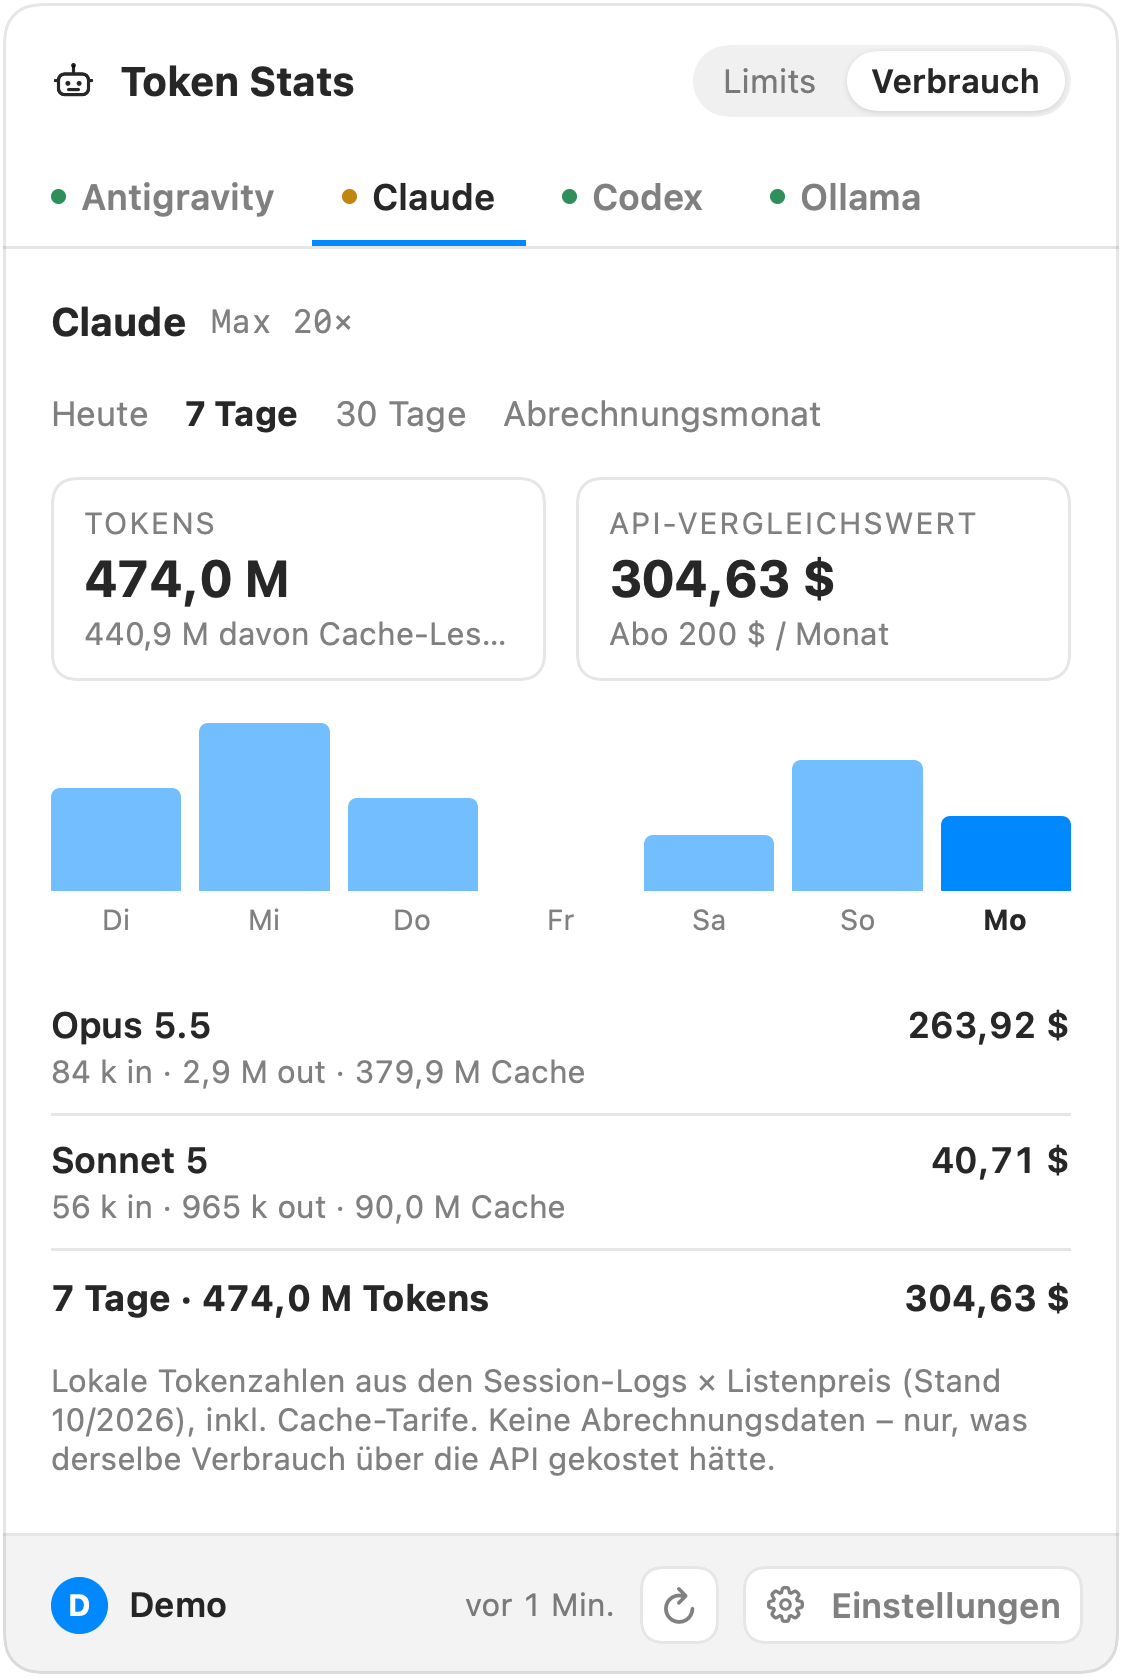
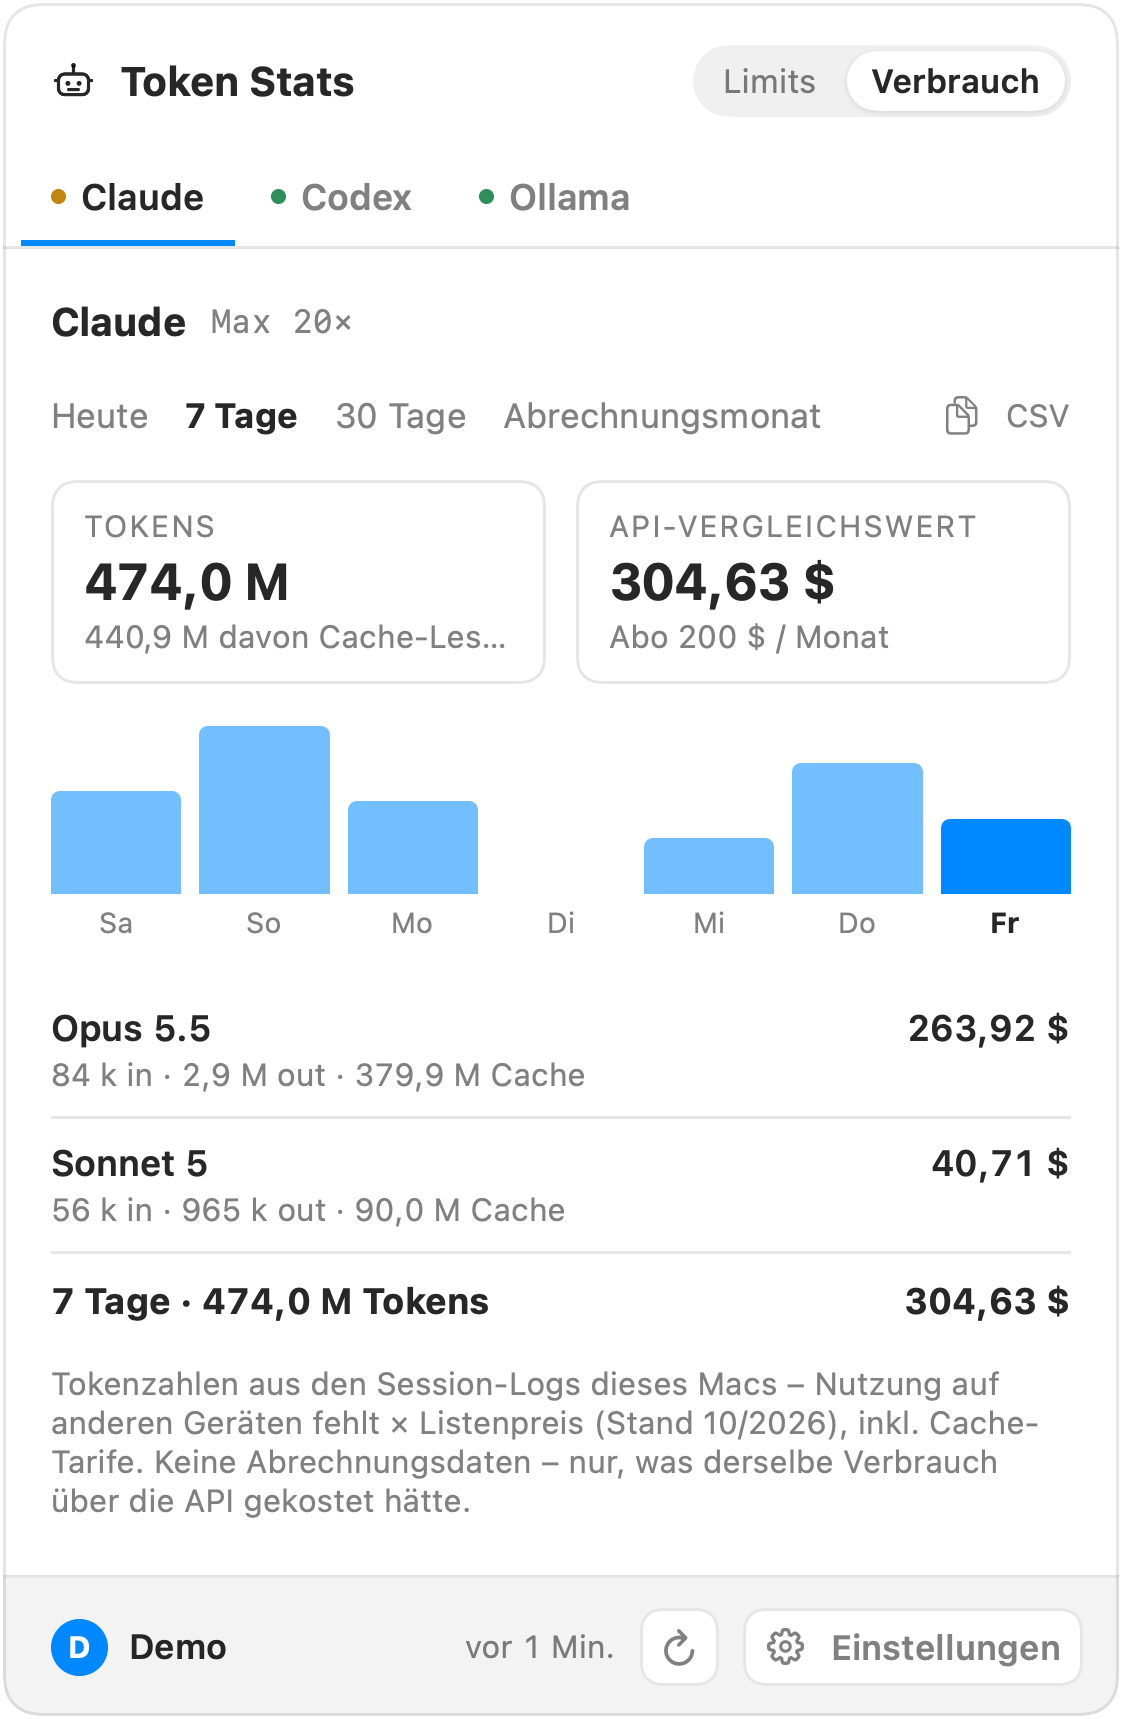
Verbrauch als CSV in die Zwischenablage kopieren
Neuer Button „CSV“ rechts neben den Zeiträumen auf der Verbrauchsseite. Er legt
den angezeigten Zeitraum als CSV ins Pasteboard: je Modell mit Input, Output,
Cache-Schreiben, Cache-Lesen, Tokens und API-Vergleichswert (Summenzeile) sowie
je Tag die Tokens. Semikolon und Dezimalkomma, damit Numbers und Excel mit
deutscher Spracheinstellung die Daten ohne Importdialog übernehmen. Die
Geldspalte entfällt, wenn der API-Vergleichswert abgeschaltet ist.

Die CSV-Erzeugung liegt als reine Funktion in UsageCSV und ist getestet.

diff --git a/Tests/TokenStatsTests/UsageTests.swift b/Tests/TokenStatsTests/UsageTests.swift
@@ -134,3 +134,43 @@ import Testing
         #expect(summary.hasUnpriced == false)
     }
 }
+
+@Suite struct UsageCSVTests {
+    var calendar: Calendar {
+        var calendar = Calendar(identifier: .gregorian)
+        calendar.timeZone = TimeZone(identifier: "Europe/Berlin")!
+        return calendar
+    }
+
+    var summary: UsageSummary {
+        let from = calendar.date(from: DateComponents(year: 2026, month: 9, day: 27))!
+        let through = calendar.date(from: DateComponents(year: 2026, month: 9, day: 28))!
+        let rows = [
+            UsageLedger.Row(day: "2026-09-28", model: "claude-opus-5-5",
+                            counts: TokenCounts(input: 1_000_000, output: 100_000, cacheWrite5m: 50_000, cacheWrite1h: 50_000, cacheRead: 2_000_000)),
+            UsageLedger.Row(day: "2026-09-27", model: "unbekannt", counts: TokenCounts(input: 10, output: 5)),
+        ]
+        return UsageSummary.build(rows: rows, from: from, through: through, prices: PricingTests.table, calendar: calendar)
+    }
+
+    @Test func rendersModelsTotalAndDays() {
+        let lines = UsageCSV.render(summary, showMoney: true, calendar: calendar).split(separator: "\n", omittingEmptySubsequences: false)
+        #expect(lines[0] == "Modell;Modell-ID;Input;Output;Cache-Schreiben;Cache-Lesen;Tokens;API-Vergleichswert (USD)")
+        // 4 + 2 + 0,25 + 0,4 + 0,4 = 7,05 $ bei den Testpreisen (Input, Output, Cache 5m, Cache 1h, Cache-Lesen)
+        #expect(lines[1] == "Opus 5.5;claude-opus-5-5;1000000;100000;100000;2000000;3200000;7,05")
+        #expect(lines[2] == "unbekannt;unbekannt;10;5;0;0;15;", "Modell ohne Preis: leeres Feld statt 0")
+        #expect(lines[3] == "Gesamt;;1000010;100005;100000;2000000;3200015;7,05")
+        #expect(lines[4] == "")
+        #expect(lines[5] == "Datum;Tokens")
+        #expect(lines[6] == "2026-09-27;15")
+        #expect(lines[7] == "2026-09-28;3200000")
+        #expect(lines.last == "", "endet mit Zeilenumbruch")
+    }
+
+    @Test func omitsMoneyColumnWhenDisabled() {
+        let csv = UsageCSV.render(summary, showMoney: false, calendar: calendar)
+        #expect(!csv.contains("API-Vergleichswert"))
+        #expect(csv.hasPrefix("Modell;Modell-ID;Input;Output;Cache-Schreiben;Cache-Lesen;Tokens\n"))
+        #expect(csv.contains("\nGesamt;;1000010;100005;100000;2000000;3200015\n"))
+    }
+}

diff --git a/Sources/TokenStats/Usage/UsageCSV.swift b/Sources/TokenStats/Usage/UsageCSV.swift
@@ -1,0 +1,52 @@
+import Foundation
+
+/// Verbrauch eines Zeitraums als CSV – Semikolon und Dezimalkomma, damit Numbers und
+/// Excel mit deutscher Spracheinstellung die Datei ohne Importdialog verstehen.
+/// Zwei Blöcke: je Modell (mit Summenzeile) und je Tag, durch eine Leerzeile getrennt.
+/// Cache-Tokens stehen getrennt, der Geldbetrag heißt „API-Vergleichswert“ (CLAUDE.md).
+enum UsageCSV {
+    static let separator = ";"
+
+    static func render(_ summary: UsageSummary, showMoney: Bool, calendar: Calendar = .current) -> String {
+        var lines: [String] = []
+
+        var header = ["Modell", "Modell-ID", "Input", "Output", "Cache-Schreiben", "Cache-Lesen", "Tokens"]
+        if showMoney { header.append("API-Vergleichswert (USD)") }
+        lines.append(row(header))
+
+        for line in summary.models {
+            var fields = [ModelName.display(line.model), line.model] + counts(line.counts)
+            if showMoney { fields.append(line.value.map(money) ?? "") }
+            lines.append(row(fields))
+        }
+
+        var total = ["Gesamt", ""] + counts(summary.total)
+        if showMoney { total.append(money(summary.value)) }
+        lines.append(row(total))
+
+        lines.append("")
+        lines.append(row(["Datum", "Tokens"]))
+        for day in summary.days {
+            lines.append(row([UsageSummary.key(day.day, calendar), String(day.tokens)]))
+        }
+        return lines.joined(separator: "\n") + "\n"
+    }
+
+    private static func counts(_ counts: TokenCounts) -> [String] {
+        [counts.input, counts.output, counts.cacheWrite, counts.cacheRead, counts.total].map(String.init)
+    }
+
+    /// „12,34“ – ohne Währungszeichen, das steht im Spaltenkopf.
+    private static func money(_ amount: Double) -> String {
+        Format.number(amount, digits: 2)
+    }
+
+    private static func row(_ fields: [String]) -> String {
+        fields.map(quote).joined(separator: separator)
+    }
+
+    private static func quote(_ field: String) -> String {
+        guard field.contains(separator) || field.contains("\"") || field.contains("\n") else { return field }
+        return "\"" + field.replacingOccurrences(of: "\"", with: "\"\"") + "\""
+    }
+}

diff --git a/Sources/TokenStats/UI/UsageView.swift b/Sources/TokenStats/UI/UsageView.swift
@@ -1,3 +1,4 @@
+import AppKit
 import SwiftUI
 
 /// Seite „Verbrauch“: Tokens und API-Vergleichswert je Zeitraum (SPEC §3.5).
@@ -8,6 +9,7 @@ struct UsageView: View {
     let subscription: Int?
 
     @State private var period: UsagePeriod = .week
+    @State private var copied = false
 
     var body: some View {
         VStack(alignment: .leading, spacing: 14) {
@@ -50,7 +52,33 @@ struct UsageView: View {
                     .font(.system(size: 11.5, weight: option == period ? .bold : .regular))
                     .foregroundStyle(option == period ? .primary : .secondary)
             }
+            Spacer()
+            if let summary = consumption.summary(providerID, period), !summary.total.isZero {
+                copyButton(summary)
+            }
         }
+    }
+
+    /// Kopiert den Zeitraum als CSV – je Modell und je Tag – in die Zwischenablage,
+    /// für Tabellenkalkulation oder Abrechnung.
+    private func copyButton(_ summary: UsageSummary) -> some View {
+        Button {
+            let pasteboard = NSPasteboard.general
+            pasteboard.clearContents()
+            pasteboard.setString(UsageCSV.render(summary, showMoney: showMoney), forType: .string)
+            copied = true
+            Task {
+                try? await Task.sleep(for: .seconds(1.5))
+                copied = false
+            }
+        } label: {
+            Label(copied ? "Kopiert" : "CSV", systemImage: copied ? "checkmark" : "doc.on.doc")
+                .font(.system(size: 10.5))
+                .foregroundStyle(.secondary)
+        }
+        .buttonStyle(.plain)
+        .help("Verbrauch dieses Zeitraums als CSV kopieren")
+        .accessibilityLabel("Verbrauch als CSV kopieren")
     }
 
     @ViewBuilder

diff --git a/README.md b/README.md
@@ -43,6 +43,9 @@ keine Cloud, keine Telemetrie.
   getrennt ausgewiesenem Cache-Anteil, Tagesdiagramm und Aufschlüsselung je Modell.
 - **API-Vergleichswert** aus Tokenzahl × Listenpreis, mit mitgelieferter Preistabelle.
   Abschaltbar, wenn du nur Tokens sehen willst.
+- **CSV kopieren:** Der angezeigte Zeitraum landet mit einem Klick als CSV in der
+  Zwischenablage – je Modell mit getrennten Cache-Spalten und je Tag, für Numbers, Excel
+  oder die Abrechnung.
 - **Schont die Rate-Limits:** höchstens alle 5 Minuten eine Abfrage, der letzte Stand
   überlebt Neustarts. Bei HTTP 429 bleiben die letzten Werte mit Pause-Symbol stehen –
   nie eine leere Anzeige.
